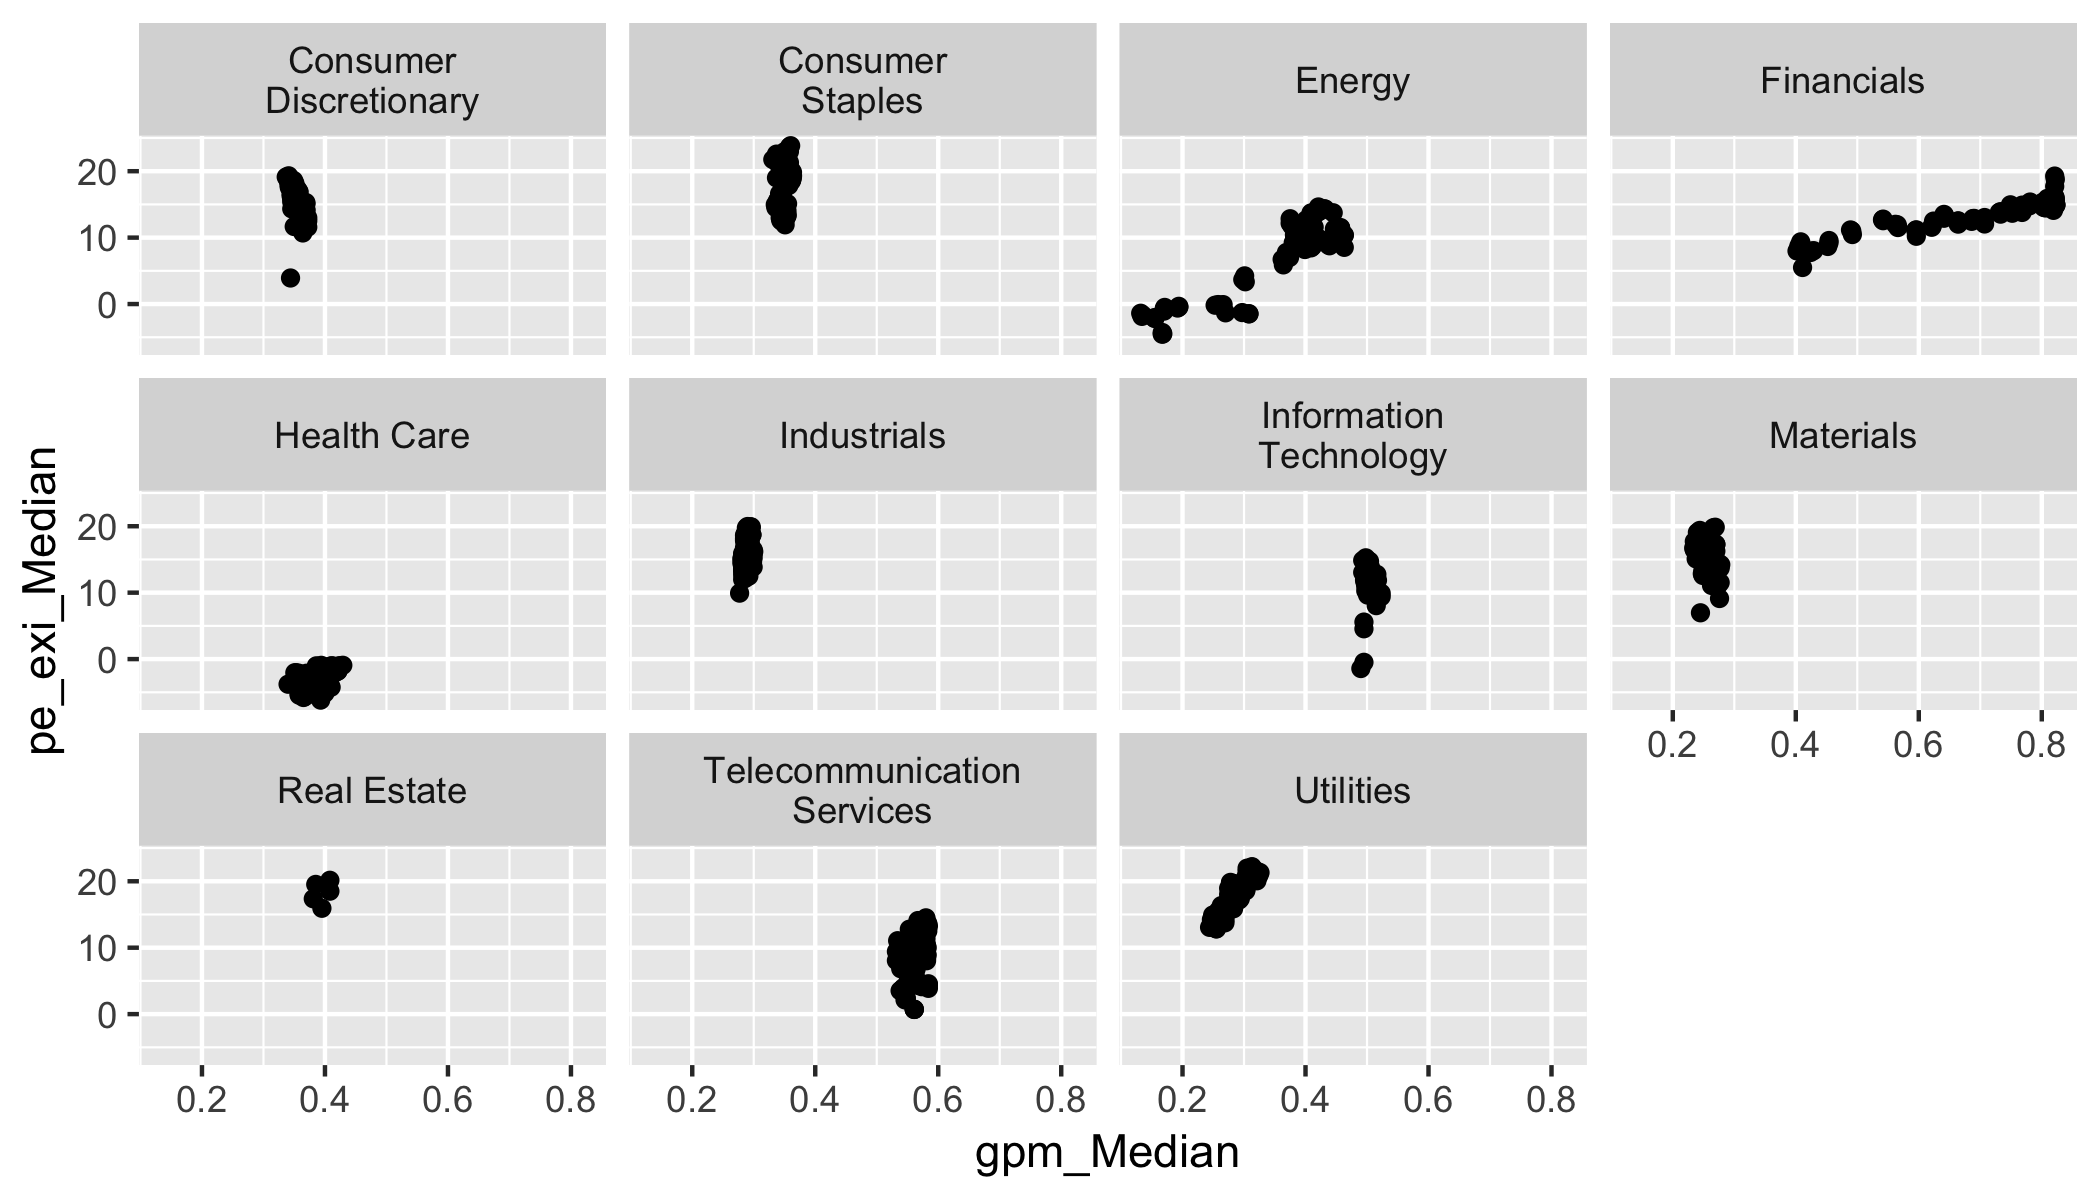
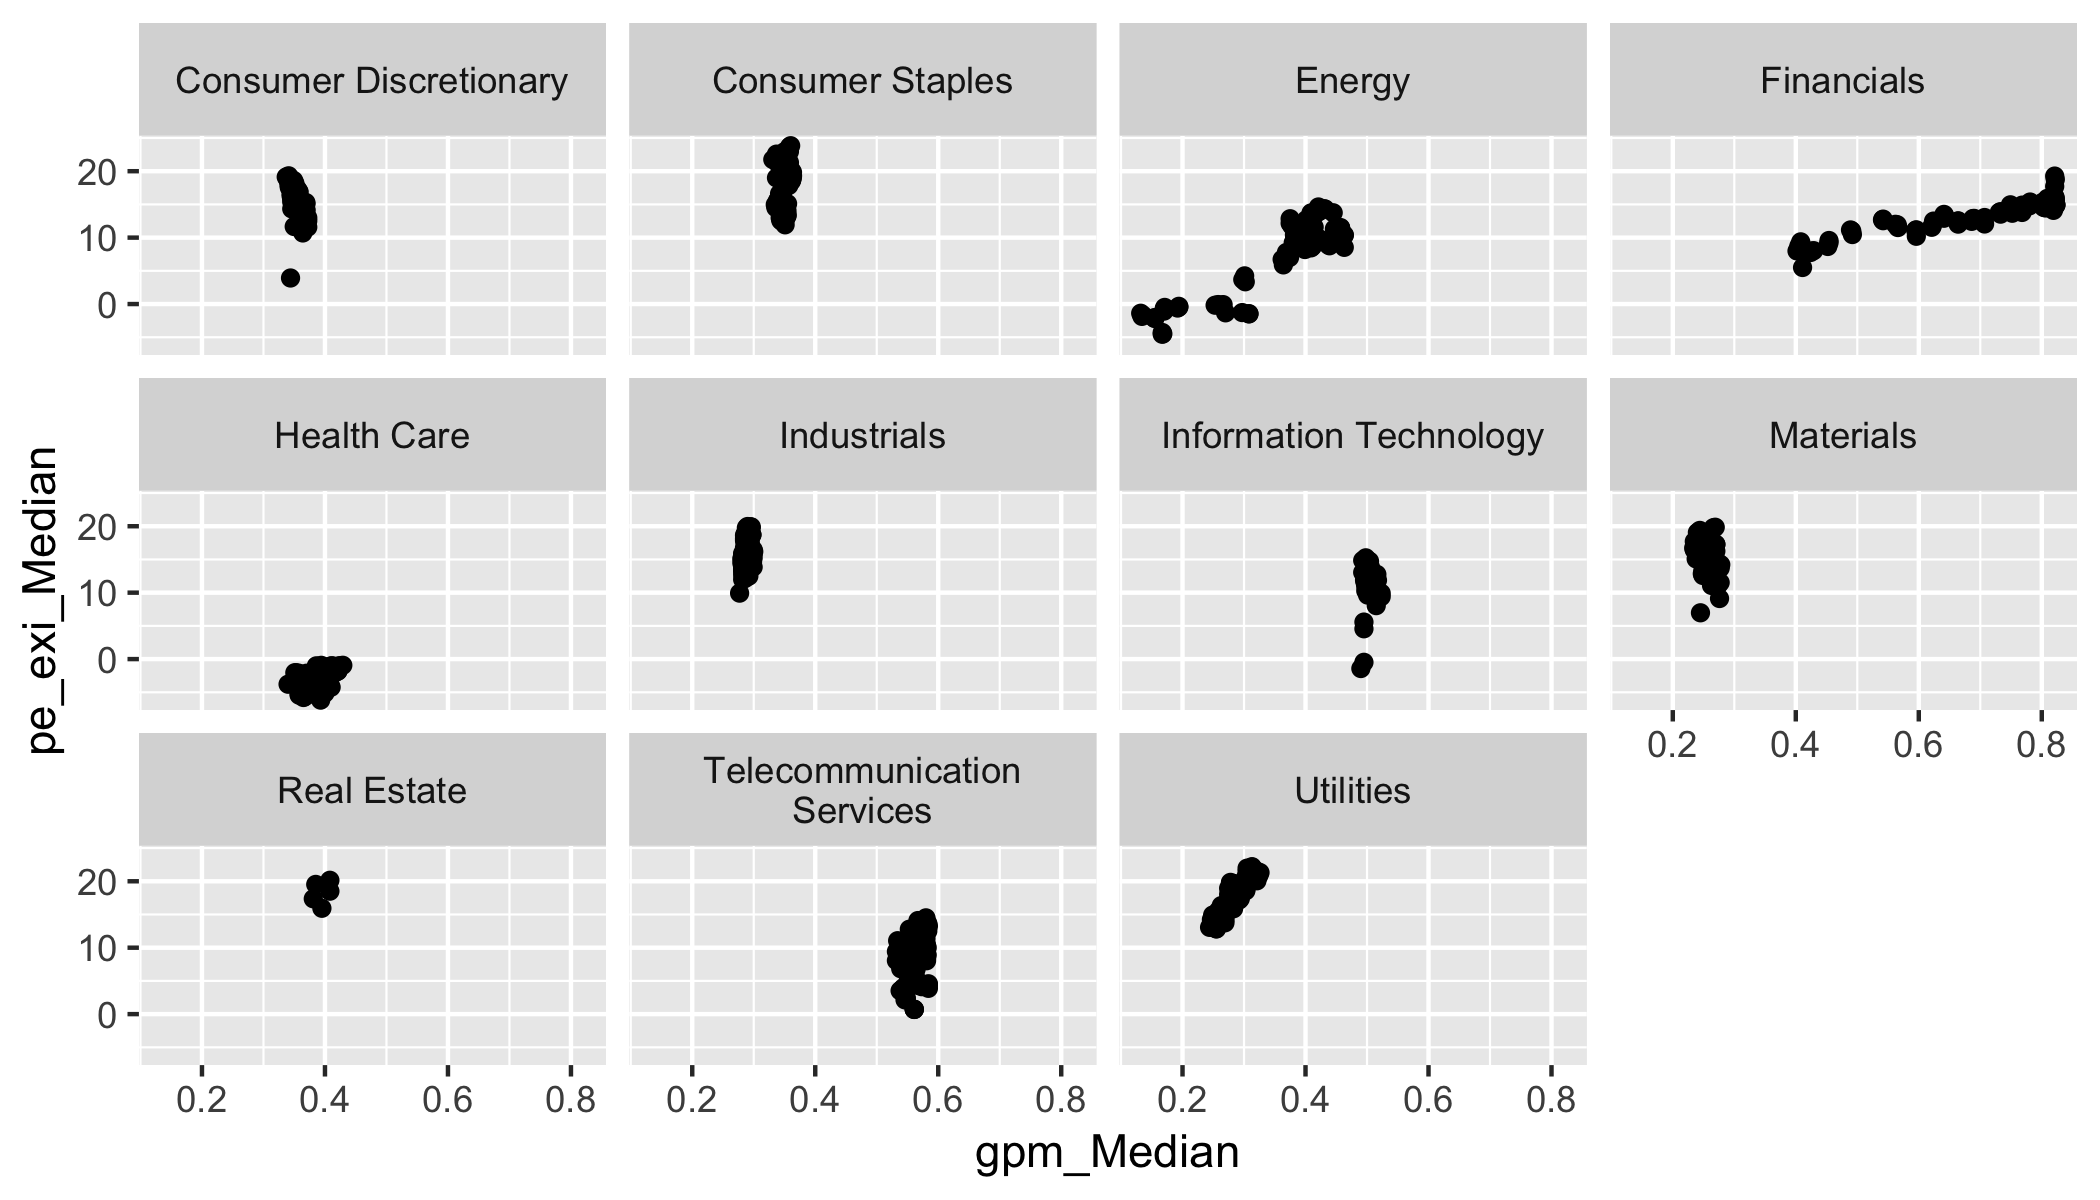
a few edits

Changed region(s): [[0.5571, 0.3392, 0.7429, 0.4008], [0.0929, 0.0308, 0.2786, 0.0925], [0.3405, 0.0308, 0.4952, 0.0925]]

diff --git a/03-data-viz/03-data-viz.html b/03-data-viz/03-data-viz.html
@@ -477,11 +477,12 @@ ggplot(data = starwars, mapping = aes(x = height, y = mass, color = gender)) +
 
 ---
 
-# Btm vs. ROE with Number of Firms in Industry
+# BtM vs. ROE in 2016
 .small[
 
 ```r
-ggplot(data = ratios_2016, mapping = aes(x = roe_Median , y = bm_Median, size = NFIRM)) +
+ggplot(data = ratios_2016, mapping = aes(x = roe_Median , 
+                          y = bm_Median, size = NFIRM)) +
   geom_point() +
   labs(x = "ROE (Median)", y = "Book-to-Market (Median)", size = "Number of Firms") + 
   ggtitle("Relationship between BtM and ROE Across FF48")
@@ -492,7 +493,7 @@ ggplot(data = ratios_2016, mapping = aes(x = roe_Median , y = bm_Median, size = 
 
 ---
 
-# Btm vs. ROE From 2010 - 2016 by GICS Industry
+# BtM vs. ROE From 2010 - 2016
 .small[
 
 ```r
@@ -560,11 +561,11 @@ Using a wrap gives you a little more space for category names.
 
 ```r
 ggplot(data = ratios_gics, mapping = aes(y = pe_exi_Median, x=gpm_Median)) +
-  facet_wrap(~ gicdesc, labeller = label_wrap_gen(width = 15, multi_line = TRUE)) + 
+  facet_wrap(~ gicdesc, labeller = label_wrap_gen(multi_line = TRUE)) + 
   geom_point()
 ```
 
-&lt;img src="03-data-viz_files/figure-html/unnamed-chunk-24-1.png" width="70%" style="display: block; margin: auto;" /&gt;
+&lt;img src="03-data-viz_files/figure-html/unnamed-chunk-24-1.png" width="90%" style="display: block; margin: auto;" /&gt;
 ]
 
 
@@ -813,7 +814,8 @@ You can assign them with `&lt;-` and then work with them in stages. Remember, `g
 
 ```r
 library(ggthemes)
-*ratio_plot &lt;- ggplot(data = ratios_2016, mapping = aes(x = roe_Median , y = bm_Median)) +
+ratio_plot &lt;- ggplot(data = ratios_2016, 
+*         mapping = aes(x = roe_Median , y = bm_Median)) +
   geom_point() 
 *ratio_plot + labs(x = "ROE (Median)", y = "Book-to-Market (Median)") +
   ggtitle("Relationship between BtM and ROE Across FF48", 
